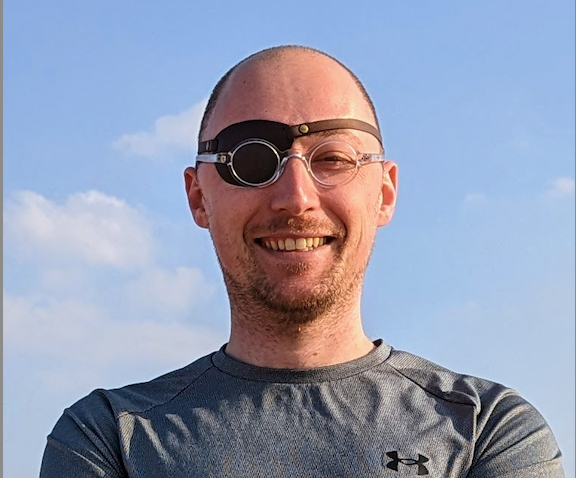
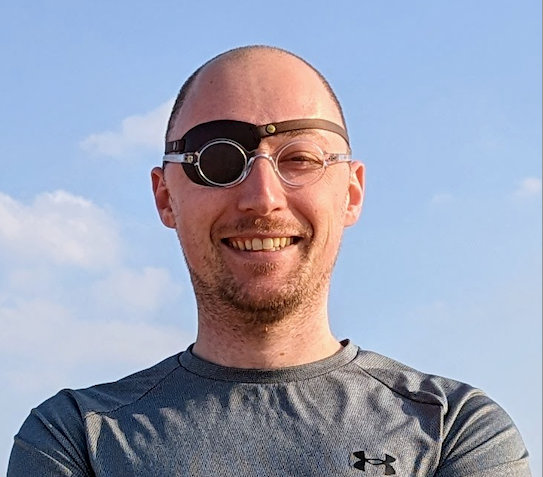
modify the senior program committees' images

Changed region(s): [[0.0, 0.0, 0.9724, 1.0], [0.2063, 0.5577, 0.2357, 0.6164], [0.1179, 0.5283, 0.1473, 0.5577]]

diff --git a/_pages/committees/program.md b/_pages/committees/program.md
@@ -54,7 +54,7 @@ sidebar:
 
 {% include committee-member.html
    name="Christian Hardmeier"
-   picture="/assets/images/senior_program/image_none.jpg"
+   picture="/assets/images/senior_program/Christian_Hardmeier.jpg"
    site="https://christianhardmeier.rax.ch/"
    institution="IT University of Copenhagen, Denmark"
 %}
@@ -173,7 +173,7 @@ sidebar:
 
 {% include committee-member.html
    name="Mike Lewis"
-   picture="/assets/images/senior_program/image_none.jpg"
+   picture="/assets/images/senior_program/Mike_Lewis.jpg"
    site="https://ai.facebook.com/people/mike-lewis/"
    institution="Meta AI Research, USA"
 %}
@@ -247,7 +247,7 @@ sidebar:
 
 {% include committee-member.html
    name="Markus Freitag"
-   picture="/assets/images/senior_program/image_none.jpg"
+   picture="/assets/images/senior_program/Markus_Freitag.jpg"
    site="https://research.google/people/MarkusFreitag/"
    institution="Google, USA"
 %}
@@ -329,7 +329,7 @@ sidebar:
 ### Resources and Evaluation
 {% include committee-member.html
    name="Karin Verspoor"
-   picture="/assets/images/senior_program/image_none.jpg"
+   picture="/assets/images/senior_program/Karin_Verspoor.jpg"
    site="https://www.rmit.edu.au/contact/staff-contacts/academic-staff/v/verspoor-professor-karin"
    institution="RMIT University, Australia"
 %}
@@ -433,7 +433,7 @@ sidebar:
 
 {% include committee-member.html
    name="Djamé Seddah"
-   picture="/assets/images/senior_program/image_none.jpg"
+   picture="/assets/images/senior_program/Djamé_Seddah.jpg"
    site="http://pauillac.inria.fr/~seddah/"
    institution="Inria (Almanach) & Université Paris Sorbonne, France"
 %}
